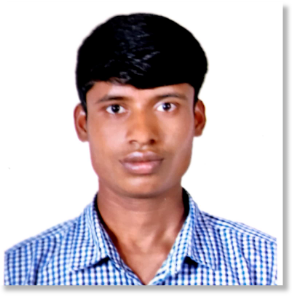
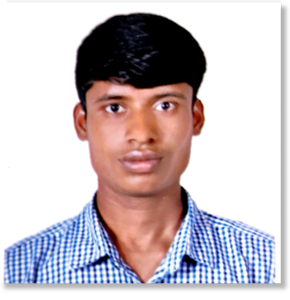
..

diff --git a/themes/dmwatch/individual-team.html b/themes/dmwatch/individual-team.html
@@ -182,7 +182,7 @@
             <li>
               <div class="crkmts-grd-item">
                 <div class="itm-grd-img-bx">
-                  <img src="assets/images/itm-grd-img-bx-03.png">
+                  <img src="assets/images/itm-grd-img-bx-02.png">
                   <a href="#" class="overlay-link"></a>
                   <div class="itm-grd-img-bx-hover">
                     <div>

diff --git a/themes/dmwatch/assets/css/_managements.css b/themes/dmwatch/assets/css/_managements.css
@@ -146,10 +146,10 @@
 }
 .itm-grd-img-bx-hover{
 	position: absolute;
-    top: 0;
-    right: 0;
-    bottom: 0;
-    left: 0;
+    top: 4px;
+    right: 10px;
+    bottom: 10px;
+    left: 4px;
     background: rgba(39,71,91,.7);
     color: #fff;
     opacity: 0;
